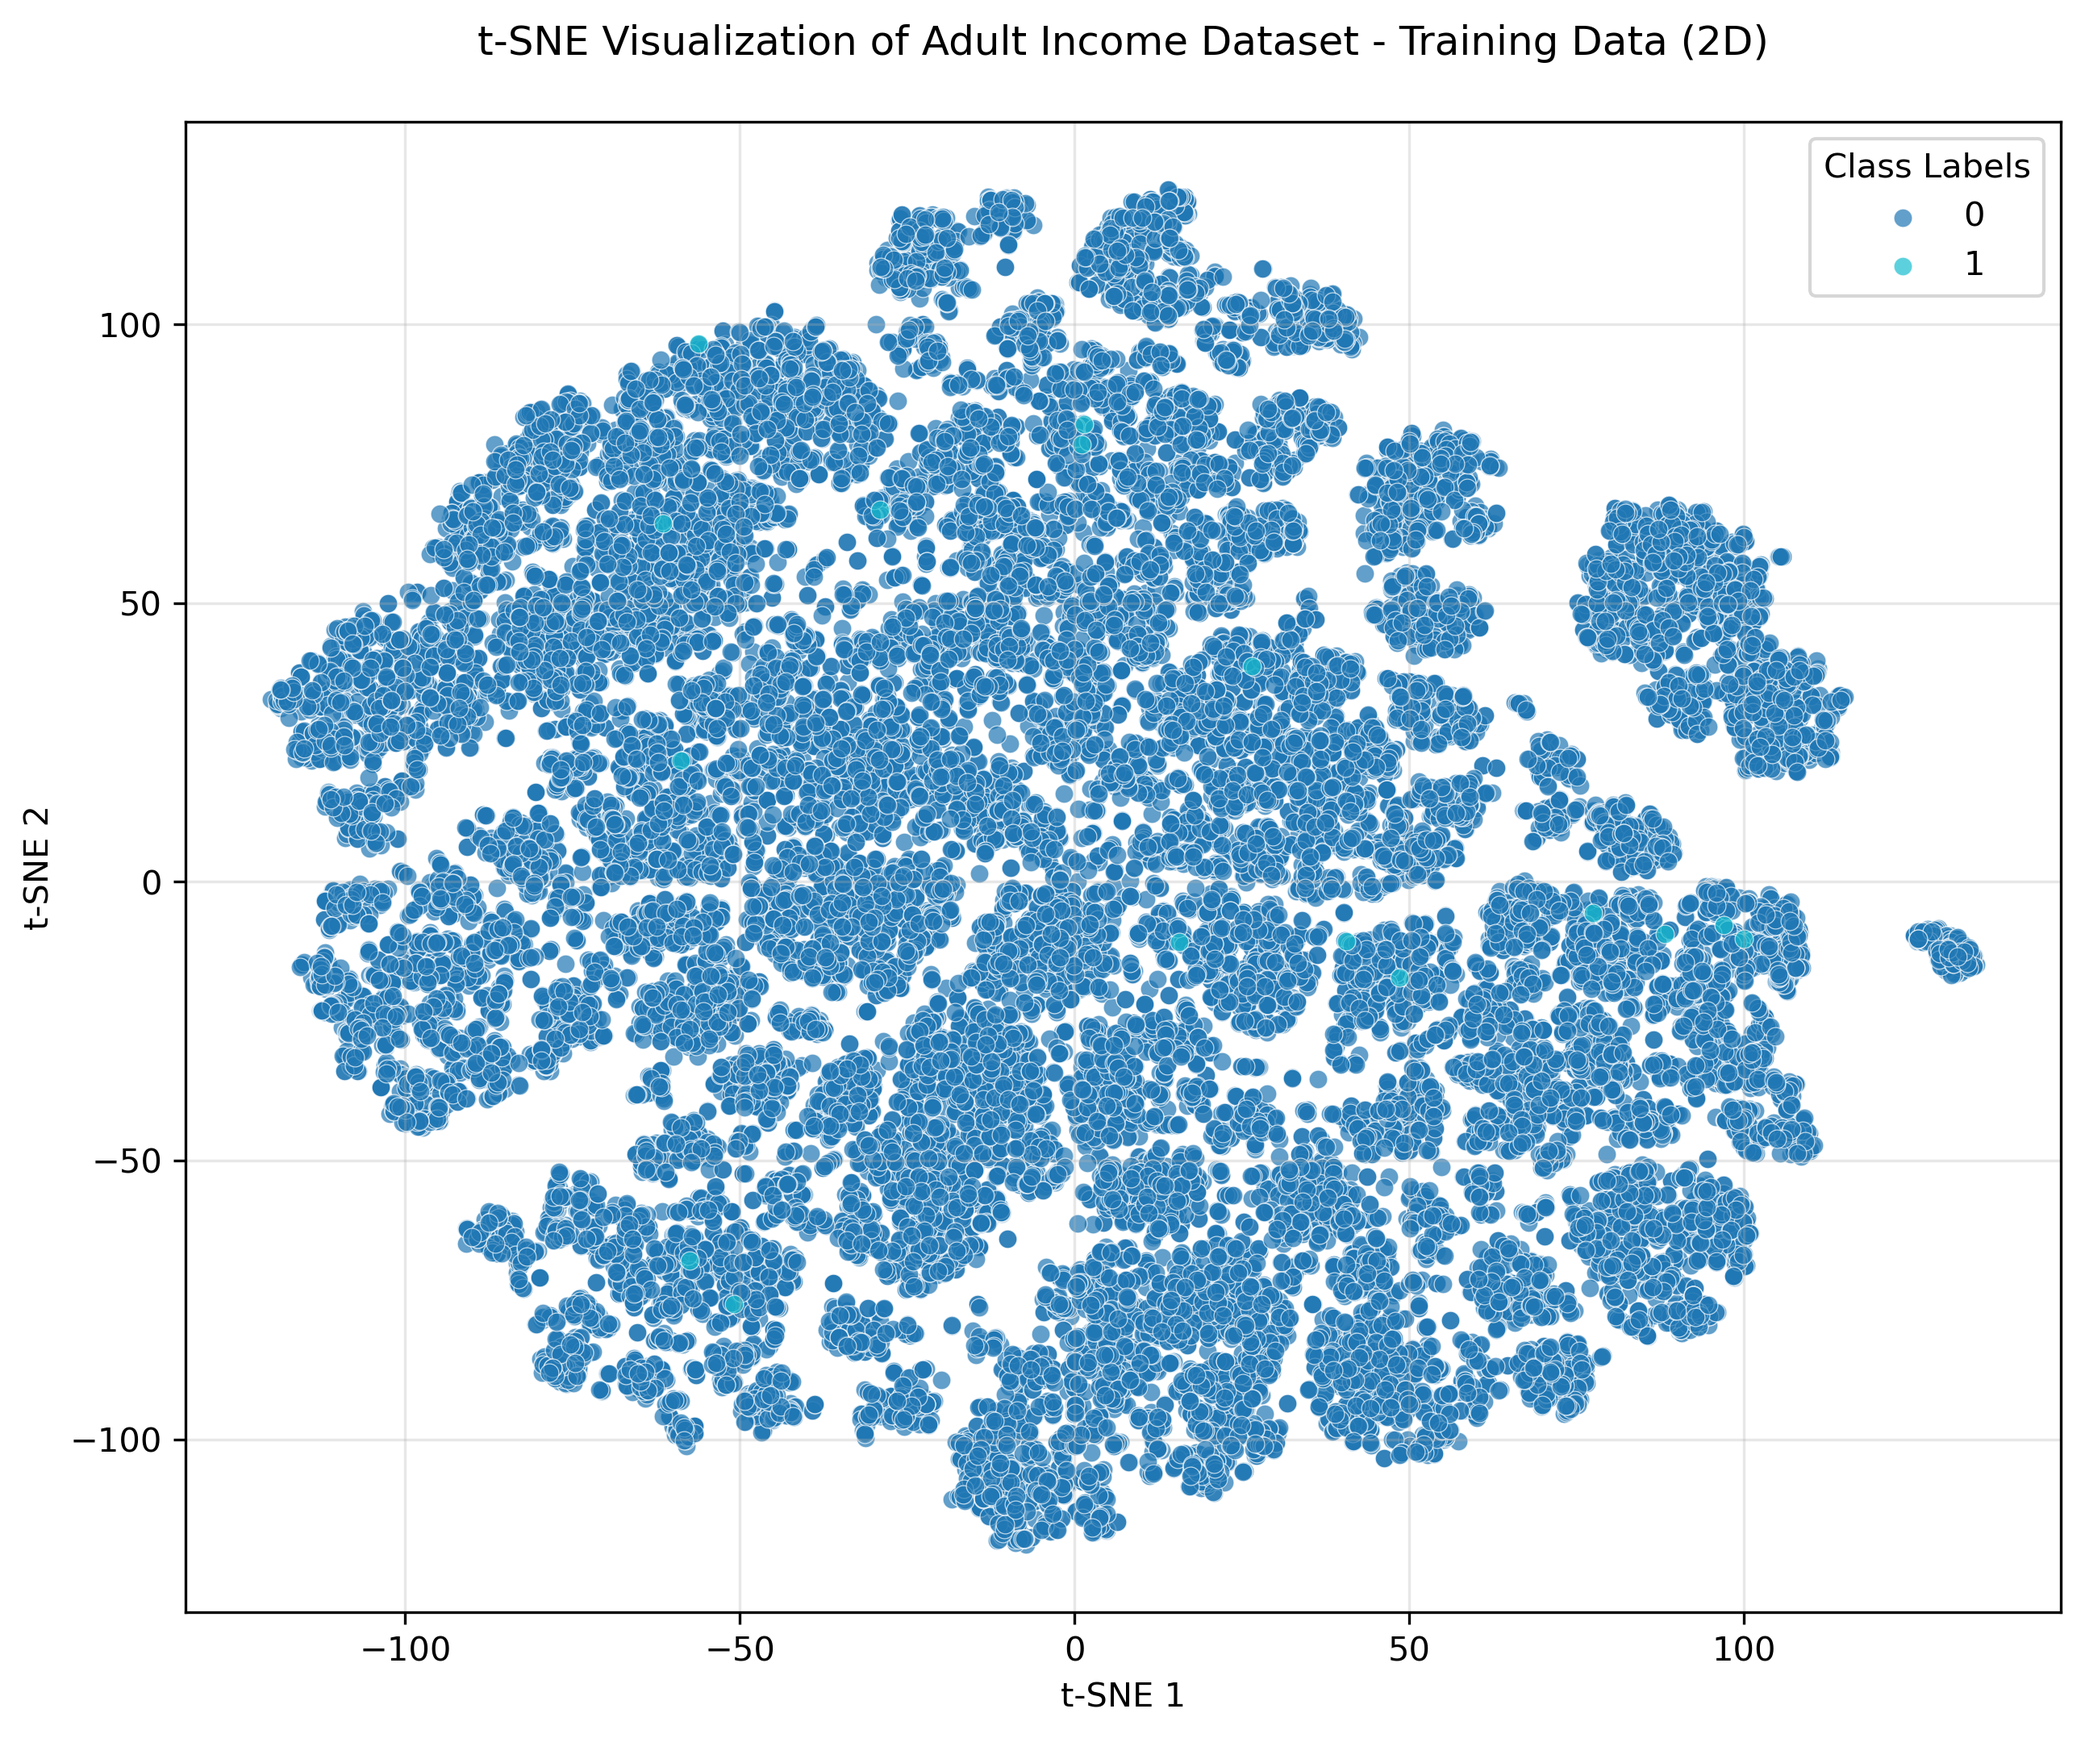
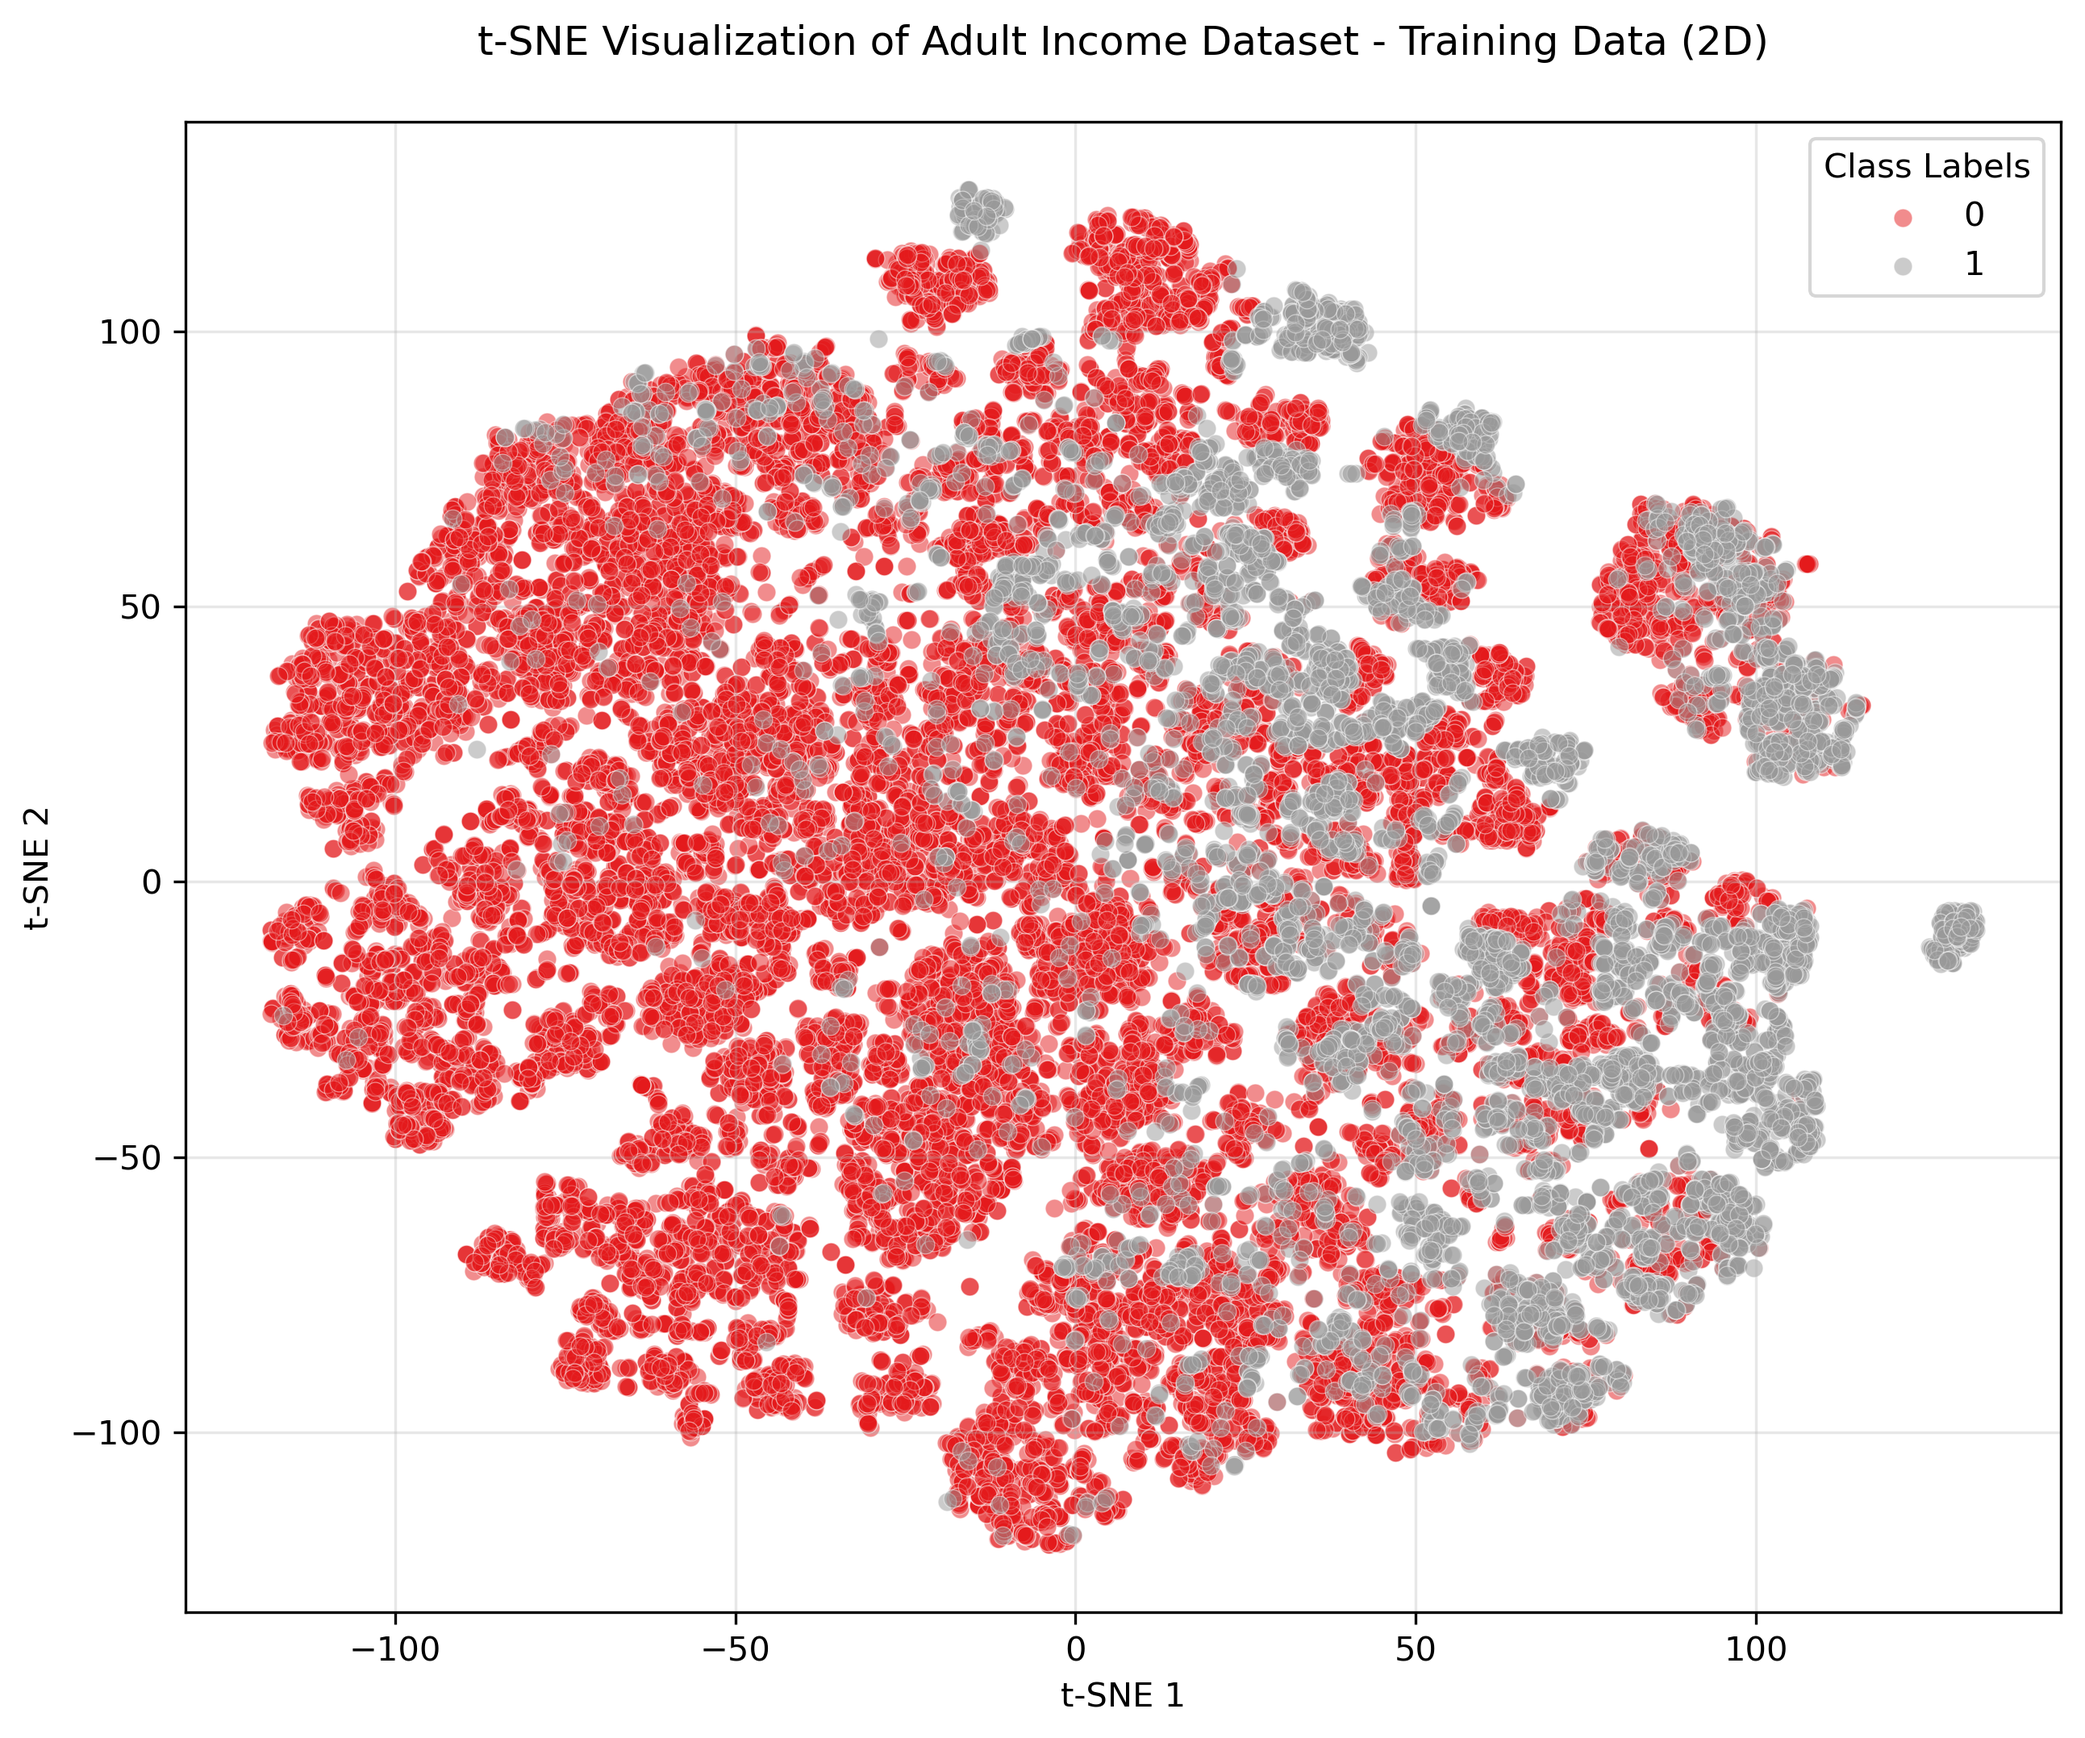
？

diff --git a/visualize.py b/visualize.py
@@ -20,8 +20,8 @@ import seaborn as sns
 from mpl_toolkits.mplot3d import Axes3D
 
 def visualize_tsne_2d(data, labels=None, title='t-SNE Visualization (2D)', 
-                     save_path=None, colormap='tab10', balance_classes=False,
-                     point_size=30, alpha=0.7, legend_loc='best'):
+                     save_path=None, colormap='tab20', balance_classes=False,
+                     point_size=30, alpha=0.5, legend_loc='best'):
     """
     优化后的2D t-SNE可视化函数，支持类别不平衡处理
     
@@ -48,9 +48,9 @@ def visualize_tsne_2d(data, labels=None, title='t-SNE Visualization (2D)',
         sorted_labels = unique_labels[np.argsort(-counts)]
         
         # 创建离散颜色映射
-        cmap = plt.get_cmap(colormap)
+        cmap = plt.get_cmap('Set1')  # 使用对比度更高的离散调色板
         colors = cmap(np.linspace(0, 1, len(unique_labels)))
-        
+
         # 分层绘制各个类别
         for idx, label in enumerate(sorted_labels):
             mask = labels == label
@@ -93,7 +93,7 @@ def _balance_classes(data, labels):
     return data[sampled_indices], labels[sampled_indices]
 
 
-def visualize_tsne_3d(data, labels=None, title='t-SNE Visualization (3D)', save_path=None, colormap='viridis'):
+def visualize_tsne_3d(data, labels=None, title='t-SNE Visualization (3D)', save_path=None, colormap='viridis', balance_classes=True):
     """
     Visualize high-dimensional data in 3D using t-SNE.
     
@@ -110,6 +110,9 @@ def visualize_tsne_3d(data, labels=None, title='t-SNE Visualization (3D)', save_
     colormap : str, optional
         Colormap to use for the scatter plot.
     """
+    if balance_classes and labels is not None:
+        data, labels = _balance_classes(data, labels)
+    
     # Apply t-SNE for dimensionality reduction to 3D
     tsne = TSNE(n_components=3, random_state=42, perplexity=30, max_iter=1200)
     embedded_data = tsne.fit_transform(data)
@@ -121,7 +124,7 @@ def visualize_tsne_3d(data, labels=None, title='t-SNE Visualization (3D)', save_
     if labels is not None:
         # If labels are provided, color points by labels
         scatter = ax.scatter(embedded_data[:, 0], embedded_data[:, 1], embedded_data[:, 2], 
-                  c=labels, cmap=colormap, alpha=0.6, s=20)
+                  c=labels, cmap='Set1', alpha=0.5, s=10)
         plt.colorbar(scatter, label='Class Labels')
     else:
         # If no labels, use a single color
@@ -189,11 +192,12 @@ if __name__ == "__main__":
     print(f"Loaded test data shape: {test_data.shape}")
     
     # Assuming the last column is the target/label
-    X_train = train_data.iloc[:, :-1].values
-    y_train = train_data.iloc[:, -1].values
+    X_train = train_data.iloc[:, :-7].values
+    y_train = train_data.iloc[:, 7].values
     
-    X_test = test_data.iloc[:, :-1].values
-    y_test = test_data.iloc[:, -1].values
+    X_test = test_data.iloc[:, :7].values
+    y_test = test_data.iloc[:, 7].values
+    '''
     
     print("\n--- Training Data Visualization ---")
     print("Visualizing training data in 2D...")
@@ -204,6 +208,7 @@ if __name__ == "__main__":
         save_path='./figures/tsne_train_2d.png',
         colormap='tab10'  # Using a discrete colormap better for categorical data
     )
+    '''
     
     print("\nVisualizing training data in 3D...")
     embedded_train_3d = visualize_tsne_3d(
@@ -214,5 +219,5 @@ if __name__ == "__main__":
         colormap='tab10'  # Using a discrete colormap better for categorical data
     )
     print("\n--- Analyzing Clusters in Training Data ---")
-    analyze_clusters(embedded_train_2d, y_train)
+    #analyze_clusters(embedded_train_2d, y_train)
     analyze_clusters(embedded_train_3d, y_train)
